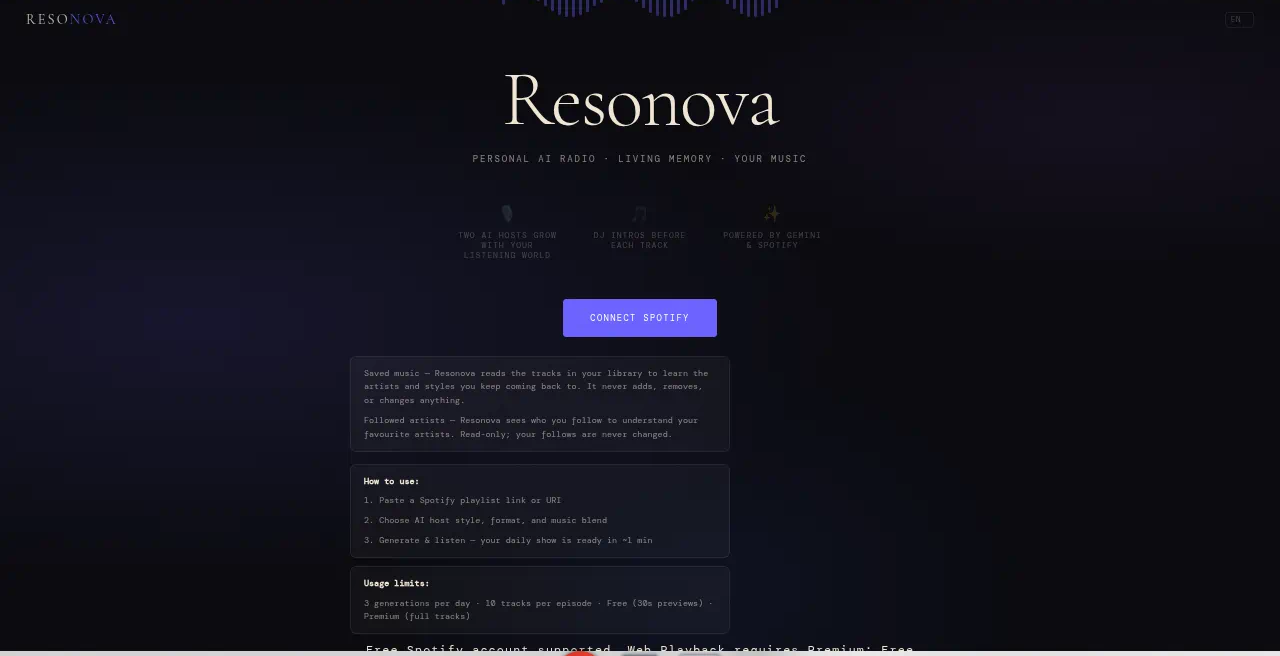
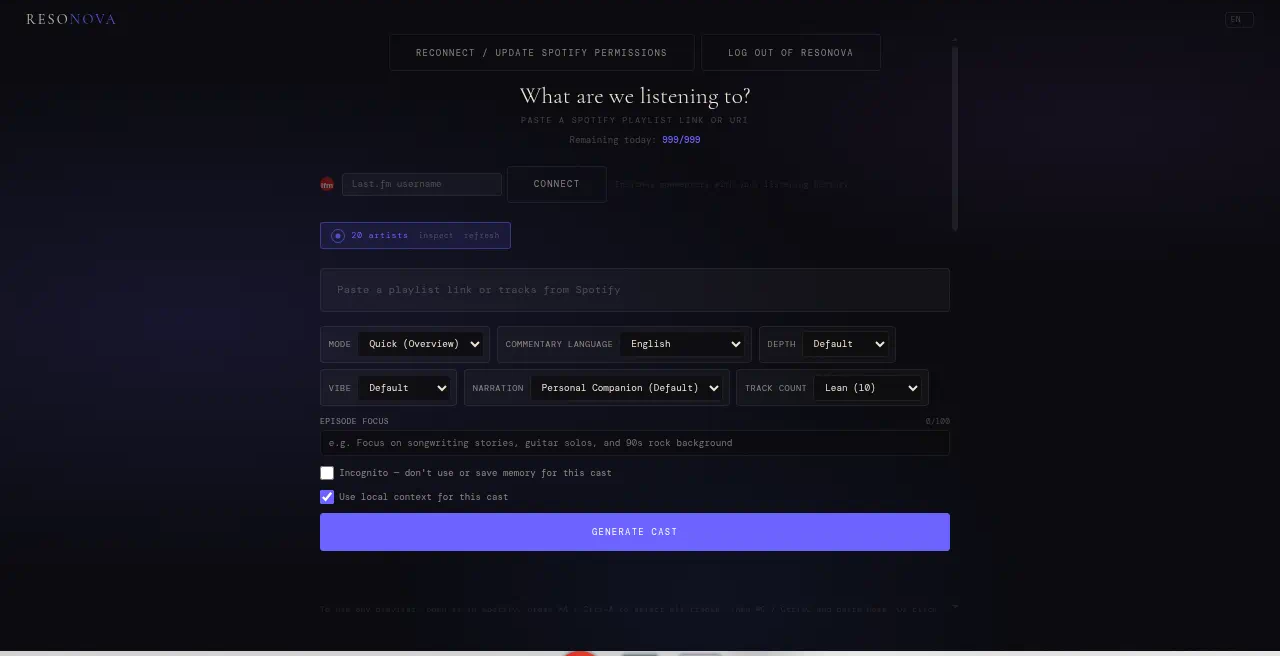
Swap Resonova still to the logged-in generate-cast UI.

diff --git a/index.html b/index.html
@@ -177,7 +177,7 @@
             <p data-i18n="resoBody">Personal AI radio companion: playlist or track list becomes a hosted cast — Gemini multi-speaker scripts, streamed TTS, and a browser player that crossfades commentary with live Spotify playback (OAuth/PKCE + Web Playback SDK).</p>
           </div>
           <div class="still support-still">
-            <img src="assets/img/stills/resonova-landing.png" alt="Resonova — personal AI radio" width="1280" height="656">
+            <img src="assets/img/stills/resonova-landing.png" alt="Resonova — generate cast, logged in" width="1280" height="656">
           </div>
         </aside>
 
